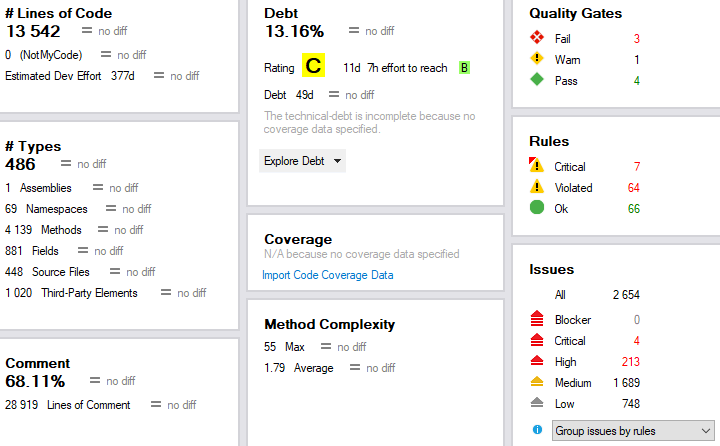
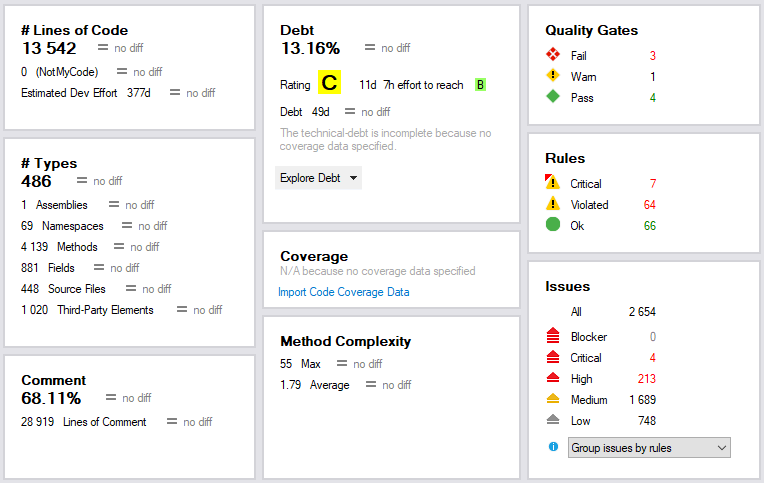
wip

diff --git a/_posts/2017-09-01-Ignite-NDepend.md b/_posts/2017-09-01-Ignite-NDepend.md
@@ -23,4 +23,7 @@ Upon analysis completion we are presented with some statistics and a summary of 
 
 ![NDepend Dashboard](../images/NDepend/dashboard.png)
 
-# Exploring critical issues
+2654 issues! Whoops! No blockers at least.
+But every static analyzer produces false positives and irrelevant issues, so it's not time to worry, yet.
+
+# Exploring Critical Issues
